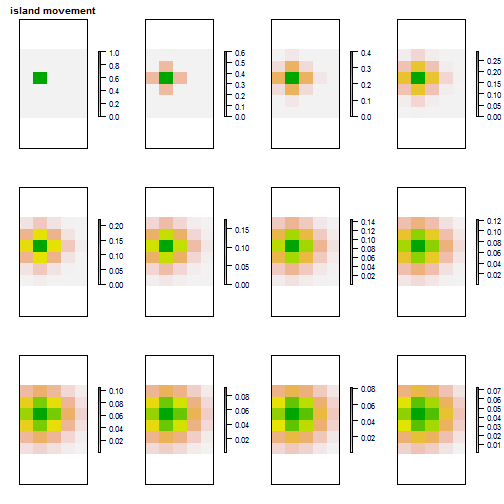
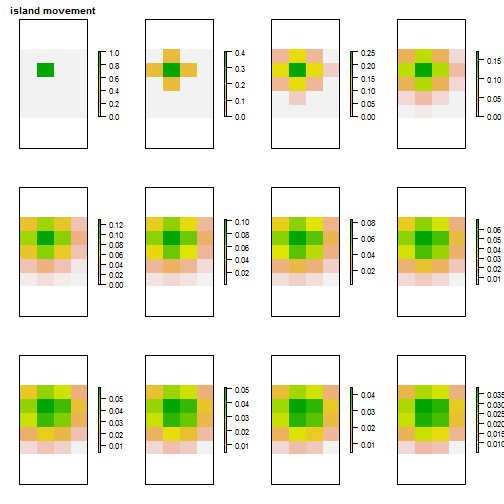
tweak post

diff --git a/_posts/2015-02-02-grid-movement.md b/_posts/2015-02-02-grid-movement.md
@@ -124,30 +124,28 @@ rtMoveReflect <- function(m, pMove=0.4) {
  
 Just looking back at the original post now I see that Kiran Dhanjal-Adams has adapted the special case of the Game of Life to work with [reflecting boundaries](https://uqkdhanj.wordpress.com/2014/10/20/getting-started-with-r/).
  
- 
 The movement functions shown above can be called over multiple time steps as shown below.
  
 
 {% highlight r %}
-nY <- 6
-nX <- 5
+nY <- 5
+nX <- 4
 nDays <- 12
 #create arrays to store results
 aIsland <- aReflect <- array(0, dim=c(nY, nX, nDays))
  
 #populate central cell of starting grid on day1
-aIsland[3,2,1] <- aReflect[3,2,1] <- 1
+aIsland[2,2,1] <- aReflect[2,2,1] <- 1
 #set proportion moving
-pMove <- 0.4
+pMove <- 0.6
  
 for(day in 2:nDays)
 {
   aIsland[,,day] <- rtMoveIsland(aIsland[,,day-1], pMove=pMove)  
-  aReflect[,,day] <- rtMoveReflect(aReflect[,,day-1], pMove=pMove)
-    
+  aReflect[,,day] <- rtMoveReflect(aReflect[,,day-1], pMove=pMove)  
 }
  
-#quick way of displaying the resulting arrays
+#quick way of displaying population spread over time
 require(raster)
 plot( raster::brick(aIsland), axes=FALSE, main="island movement" )
 {% endhighlight %}
@@ -155,21 +153,16 @@ plot( raster::brick(aIsland), axes=FALSE, main="island movement" )
 ![plot of chunk unnamed-chunk-5](/figures/unnamed-chunk-5-1.png) 
 
 {% highlight r %}
-#round(mIsland,2)
- 
 plot( raster::brick(aReflect), axes=FALSE, main="reflecting movement" )
 {% endhighlight %}
 
 ![plot of chunk unnamed-chunk-5](/figures/unnamed-chunk-5-2.png) 
-
-{% highlight r %}
-#round(mReflect,2)
-{% endhighlight %}
  
+You can see that with island movement the legend values decline more indicating population being lost off of the grid. With the reflecting movement the legend values decline less (and the decline is due to the population spreading out). Over more days with reflecting movement the population approaches an even distribution over the grid.
  
+I've now also modified these movement functions to account for no-go areas and vegetation effects on movement. I'll describe these in a later post.
  
-I've also modified these movement functions to account for no-go areas and vegetation effects on movement. I'll describe these in a later post.
- 
+As ever, any comments or suggestions of how this could be done differently are welcome.
  
  
  
